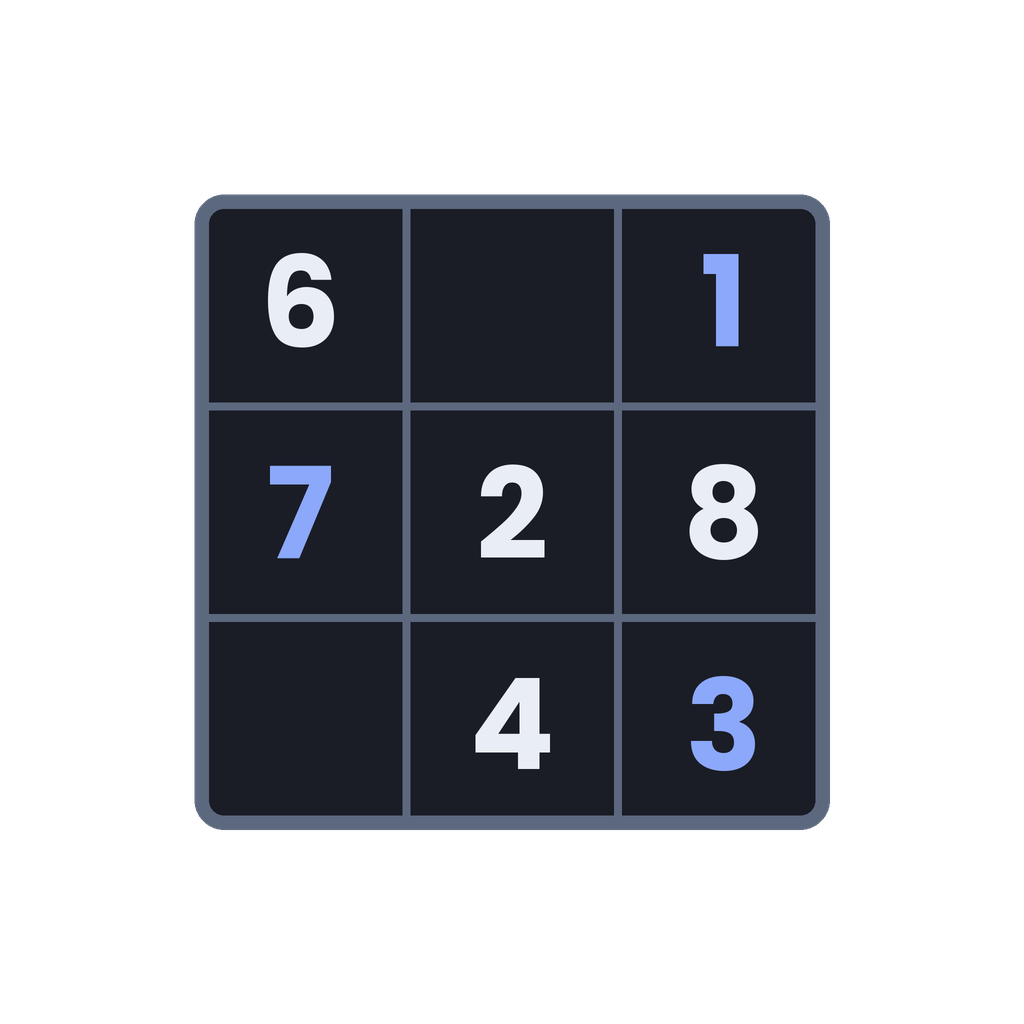
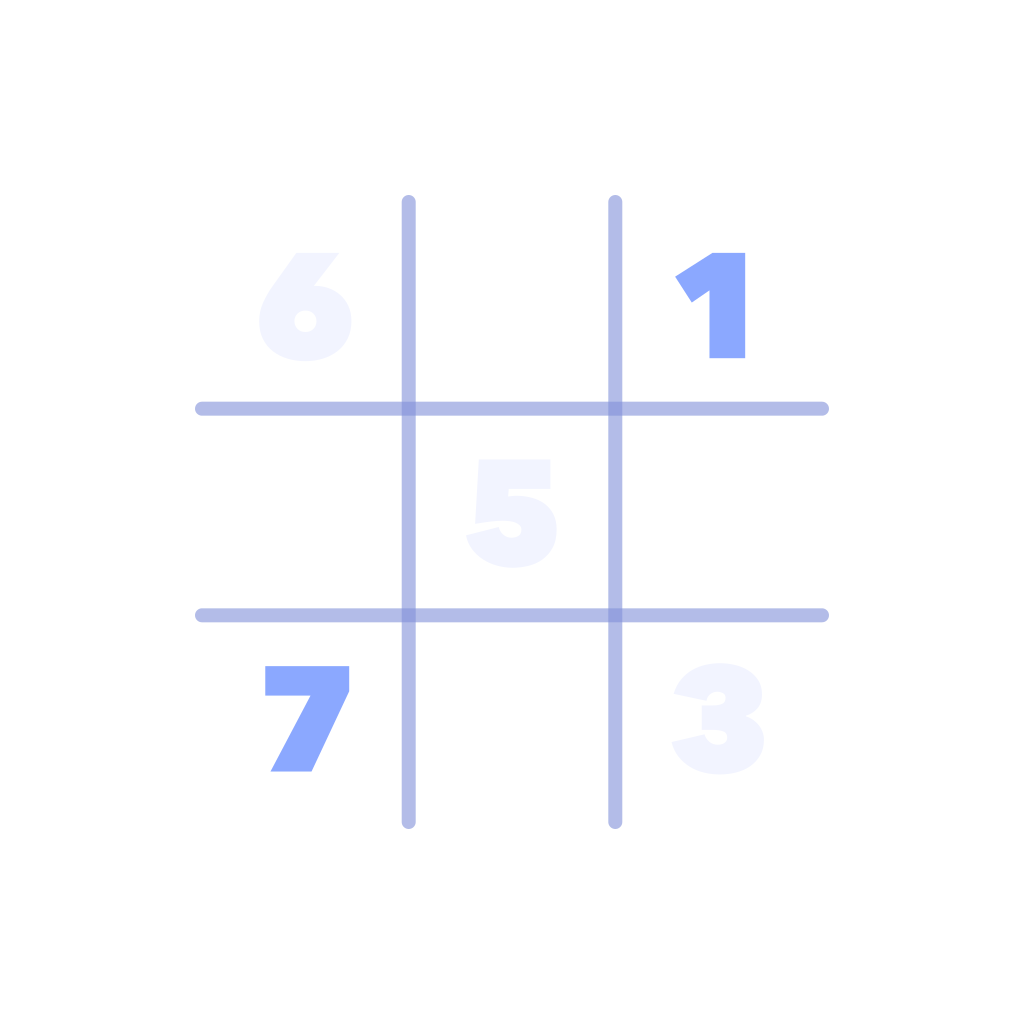
Uygulama ikonunu optimize et ve platform varyantlarını ekle
İkonun içindeki yuvarlak çerçeve kaldırıldı; iOS zaten squircle maskesi
uyguladığı için çift yuvarlaklık ve köşe kırpılması oluşuyordu. Kenar
boşluğu maske güvenli alanına çekildi, ızgara çizgilerinin kontrastı
artırıldı ve rakamlar 6'dan 5'e indirilerek 60px'te okunur hale getirildi.

- ios.icon light/dark/tinted varyantları eklendi (Expo eklentisi light ve
  tinted'ta şeffaflığı düzleştirdiği için dark şeffaf, tinted opak gri)
- android.adaptiveIcon'a backgroundImage ve monochromeImage (Android 13+
  tema ikonu) eklendi; foreground güvenli alana çekildi
- android.icon (eski cihazlar için legacy ikon) eklendi
- notification-icon.png düzeltildi: düz beyaz kareydi, Android alfadan
  silüet ürettiği için bildirimde dolu beyaz blok görünüyordu
- splash-icon.png yeni ikon diliyle yeniden üretildi
- scripts/generate-icons.js ile tüm set SVG'den üretilebiliyor

diff --git a/scripts/generate-icons.js b/scripts/generate-icons.js
@@ -1,0 +1,132 @@
+/**
+ * Sudoku ikon seti üreteci — "B" (koyu tema) tasarımı.
+ * SVG üretir; rsvg-convert ile PNG'ye çevrilir.
+ */
+const fs = require('fs');
+const S = 1024;
+const FONT = 'Avenir Next';
+
+// X deseni: 5 rakam. 60px'te bile okunur, 3x3 ızgara kimliğini korur.
+const CELLS = [
+  [0, 0, '6', 'given'],
+  [0, 2, '1', 'accent'],
+  [1, 1, '5', 'given'],
+  [2, 0, '7', 'accent'],
+  [2, 2, '3', 'given'],
+];
+
+function content({ box, lineColor, lineWidth, lineOpacity, given, accent, withDigits = true }) {
+  const margin = (S - box) / 2;
+  const cell = box / 3;
+  const fs_ = cell * 0.72;
+  const a = margin;
+  const b = margin + box;
+  const out = [];
+
+  for (let i = 1; i <= 2; i++) {
+    const p = margin + cell * i;
+    out.push(`<line x1="${p.toFixed(1)}" y1="${a.toFixed(1)}" x2="${p.toFixed(1)}" y2="${b.toFixed(1)}" stroke="${lineColor}" stroke-width="${lineWidth}" stroke-linecap="round" opacity="${lineOpacity}"/>`);
+    out.push(`<line x1="${a.toFixed(1)}" y1="${p.toFixed(1)}" x2="${b.toFixed(1)}" y2="${p.toFixed(1)}" stroke="${lineColor}" stroke-width="${lineWidth}" stroke-linecap="round" opacity="${lineOpacity}"/>`);
+  }
+
+  if (withDigits) {
+    for (const [r, c, d, kind] of CELLS) {
+      const cx = margin + cell * c + cell / 2;
+      const cy = margin + cell * r + cell / 2;
+      // Avenir Next rakam yüksekliği ~0.71em → taban çizgisini elle hizala
+      const y = cy + fs_ * 0.355;
+      out.push(`<text x="${cx.toFixed(1)}" y="${y.toFixed(1)}" font-family="${FONT}" font-weight="800" font-size="${fs_.toFixed(1)}" fill="${kind === 'accent' ? accent : given}" text-anchor="middle">${d}</text>`);
+    }
+  }
+  return out.join('\n  ');
+}
+
+function svg({ background, ...rest }) {
+  const defs = background && background.gradient
+    ? `<linearGradient id="bg" x1="0" y1="0" x2="0.4" y2="1"><stop offset="0" stop-color="${background.gradient[0]}"/><stop offset="1" stop-color="${background.gradient[1]}"/></linearGradient>`
+    : '';
+  const bgRect = background
+    ? `<rect width="${S}" height="${S}" fill="${background.gradient ? 'url(#bg)' : background.flat}"/>`
+    : '';
+  return `<svg xmlns="http://www.w3.org/2000/svg" width="${S}" height="${S}" viewBox="0 0 ${S} ${S}">
+  <defs>${defs}</defs>
+  ${bgRect}
+  ${content(rest)}
+</svg>`;
+}
+
+const BRAND = {
+  bg: ['#2C3459', '#14172A'],
+  line: '#8090D8',
+  lineOpacity: 0.55,
+  given: '#F2F4FF',
+  accent: '#8BA8FF',
+};
+
+// Android adaptive icon: içerik merkezdeki %66'lık güvenli alanda kalmalı (620/1024 = %60.5)
+const SAFE_BOX = 620;
+const FULL_BOX = 688;
+
+const targets = {
+  // iOS light + Android legacy + web favicon: opak, tam kanvas
+  'icon': svg({
+    background: { gradient: BRAND.bg },
+    box: FULL_BOX, lineColor: BRAND.line, lineWidth: 15, lineOpacity: BRAND.lineOpacity,
+    given: BRAND.given, accent: BRAND.accent,
+  }),
+
+  // iOS dark: şeffaf zemin — sistem kendi koyu arka planını uygular
+  'icon-ios-dark': svg({
+    background: null,
+    box: FULL_BOX, lineColor: BRAND.line, lineWidth: 15, lineOpacity: 0.7,
+    given: '#FFFFFF', accent: '#A8BEFF',
+  }),
+
+  // iOS tinted: gri tonlama, opak (Expo bu varyantta şeffaflığı beyaza düzleştirir)
+  'icon-ios-tinted': svg({
+    background: { flat: '#1B1E2B' },
+    box: FULL_BOX, lineColor: '#9BA0B5', lineWidth: 15, lineOpacity: 0.7,
+    given: '#FFFFFF', accent: '#C8CCDA',
+  }),
+
+  // Android adaptive foreground: şeffaf, güvenli alan
+  'adaptive-icon': svg({
+    background: null,
+    box: SAFE_BOX, lineColor: BRAND.line, lineWidth: 14, lineOpacity: 0.6,
+    given: BRAND.given, accent: BRAND.accent,
+  }),
+
+  // Android adaptive background: tam kanvas gradyan (görünür alan merkezdeki %66)
+  'adaptive-icon-bg': svg({
+    background: { gradient: ['#343D68', '#101323'] },
+    box: 0, lineColor: 'none', lineWidth: 0, lineOpacity: 0, given: 'none', accent: 'none',
+    withDigits: false,
+  }),
+
+  // Android 13+ tema ikonu: yalnızca alfa kanalı kullanılır
+  'adaptive-icon-mono': svg({
+    background: null,
+    box: SAFE_BOX, lineColor: '#FFFFFF', lineWidth: 16, lineOpacity: 0.75,
+    given: '#FFFFFF', accent: '#FFFFFF',
+  }),
+
+  // Bildirim ikonu: Android silüeti alfadan üretir → rakamsız, kalın ızgara
+  'notification-icon': svg({
+    background: null,
+    box: 660, lineColor: '#FFFFFF', lineWidth: 46, lineOpacity: 1,
+    given: '#FFFFFF', accent: '#FFFFFF', withDigits: false,
+  }),
+
+  // Splash: #1c2139 üzerine 220px genişlikte, şeffaf zemin
+  'splash-icon': svg({
+    background: null,
+    box: 840, lineColor: BRAND.line, lineWidth: 16, lineOpacity: 0.55,
+    given: BRAND.given, accent: BRAND.accent,
+  }),
+};
+
+const dir = process.argv[2];
+for (const [name, src] of Object.entries(targets)) {
+  fs.writeFileSync(`${dir}/${name}.svg`, src);
+}
+console.log(Object.keys(targets).join(' '));

diff --git a/ILERLEME.md b/ILERLEME.md
@@ -3,7 +3,7 @@
 > Bu dosya projenin `sudoku-spec.md` içindeki **Geliştirme Aşamaları**na göre
 > nerede olduğumuzu takip eder. Her önemli değişiklikte güncellenir.
 
-**Son güncelleme:** 2026-07-25
+**Son güncelleme:** 2026-07-28
 
 > Kontrol çubuğu düğme sırası soldan sağa: Geri Al · Yinele · Sil · Not · İpucu.
 > Kontrol çubuğu + rakam tuşları, tahtanın altındaki boşluğun yarısı kadar yukarı
@@ -190,6 +190,38 @@ son kontrol, mağaza gönderim bilgilerini (`eas.json` → `submit`) doldur.
 ---
 
 ## Değişiklik Günlüğü
+
+### 2026-07-28 (uygulama ikonu optimizasyonu)
+- **Tespit edilen sorunlar** (kullanıcının ana ekran görüntüsünden): iOS zaten
+  squircle maskesi uyguluyorken ikonun *içinde* de ayrı bir yuvarlak çerçeve
+  vardı (çift yuvarlaklık, köşelerde kirli halka); kenar boşluğu ~%6 olduğu için
+  çerçevenin köşeleri maskeyle kırpılıyordu; ızgara çizgileri koyu zeminde
+  silikti; 60px'te 6 rakam okunmuyordu.
+- **Yeni tasarım** (koyu tema kimliği korundu): iç çerçeve tamamen kaldırıldı,
+  yalnızca 2 dikey + 2 yatay çizgi ("#") kaldı; koyu lacivert gradyan zemin
+  (`#2C3459` → `#14172A`); rakamlar 6/1/5/7/3 olarak X deseninde 5 adete indi
+  (`#F2F4FF` + vurgu `#8BA8FF`, Avenir Next Heavy); içerik %67 kutuda, maske
+  güvenli alanının içinde.
+- **Platform varyantları eklendi:**
+  - `ios.icon` → `light` / `dark` / `tinted`. Expo eklentisi `light` ve
+    `tinted`'ta şeffaflığı beyaza düzleştirip `dark`'ta koruduğu için
+    (`@expo/prebuild-config` `withIosIcons.js`), dark şeffaf zeminli, tinted opak
+    gri tonlamalı üretildi.
+  - `android.adaptiveIcon` → `backgroundImage` (gradyan) + `monochromeImage`
+    (Android 13+ tema ikonu) eklendi; `foregroundImage` içeriği merkezdeki
+    %60,5'lik kutuya çekildi (adaptive güvenli alan %66).
+  - `android.icon` (eski cihazlar için legacy ikon) eklendi.
+- **`assets/notification-icon.png` düzeltildi**: eskiden düz beyaz kareydi;
+  Android bildirim ikonunu alfa kanalından silüet olarak çizdiği için bildirimde
+  dolu beyaz blok görünüyordu. Artık rakamsız, kalın beyaz ızgara silüeti.
+- **`assets/splash-icon.png`** yeni ikon diliyle yeniden üretildi.
+- **`scripts/generate-icons.js`** eklendi: tüm ikon seti SVG'den üretiliyor
+  (`node scripts/generate-icons.js <dizin>` + `rsvg-convert`), böylece renk/rakam
+  değişiklikleri elle çizim gerektirmiyor.
+- **Doğrulandı**: `npx expo config` şemayı çözüyor; `npx expo prebuild` sonrası
+  `AppIcon.appiconset/Contents.json` dark+tinted appearance kayıtlarını,
+  `mipmap-anydpi-v26/ic_launcher.xml` ise background/foreground/monochrome
+  katmanlarını içeriyor. Üretilen iOS light ikonunda alfa yok (App Store şartı).
 
 ### 2026-07-26 (ses efekti)
 - **`assets/sounds/pop.wav` → `assets/sounds/tap.wav`** (kullanıcının seçtiği yeni ses).
